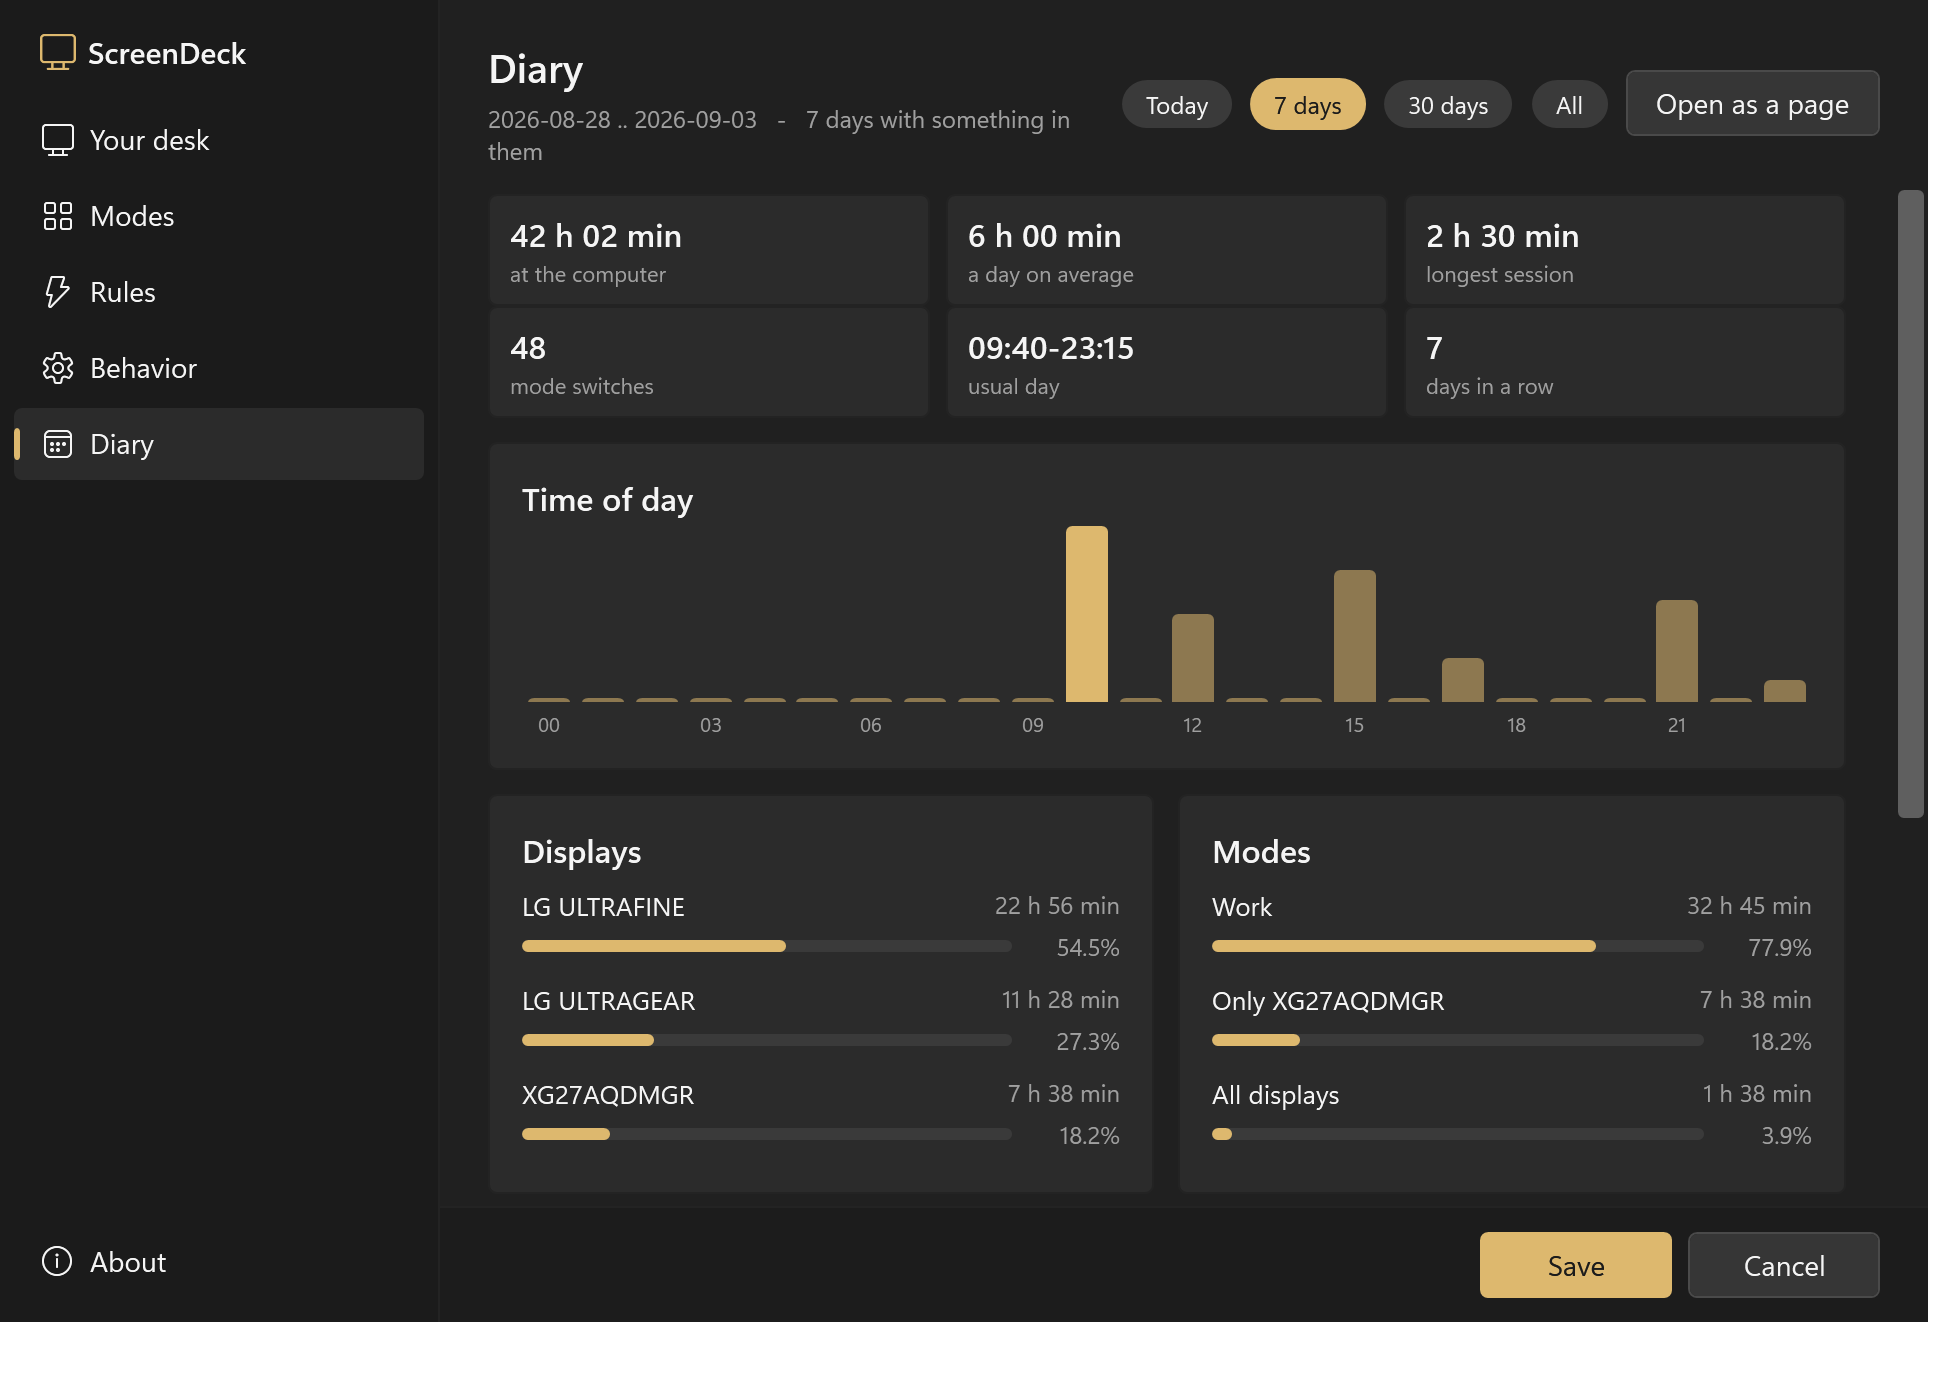
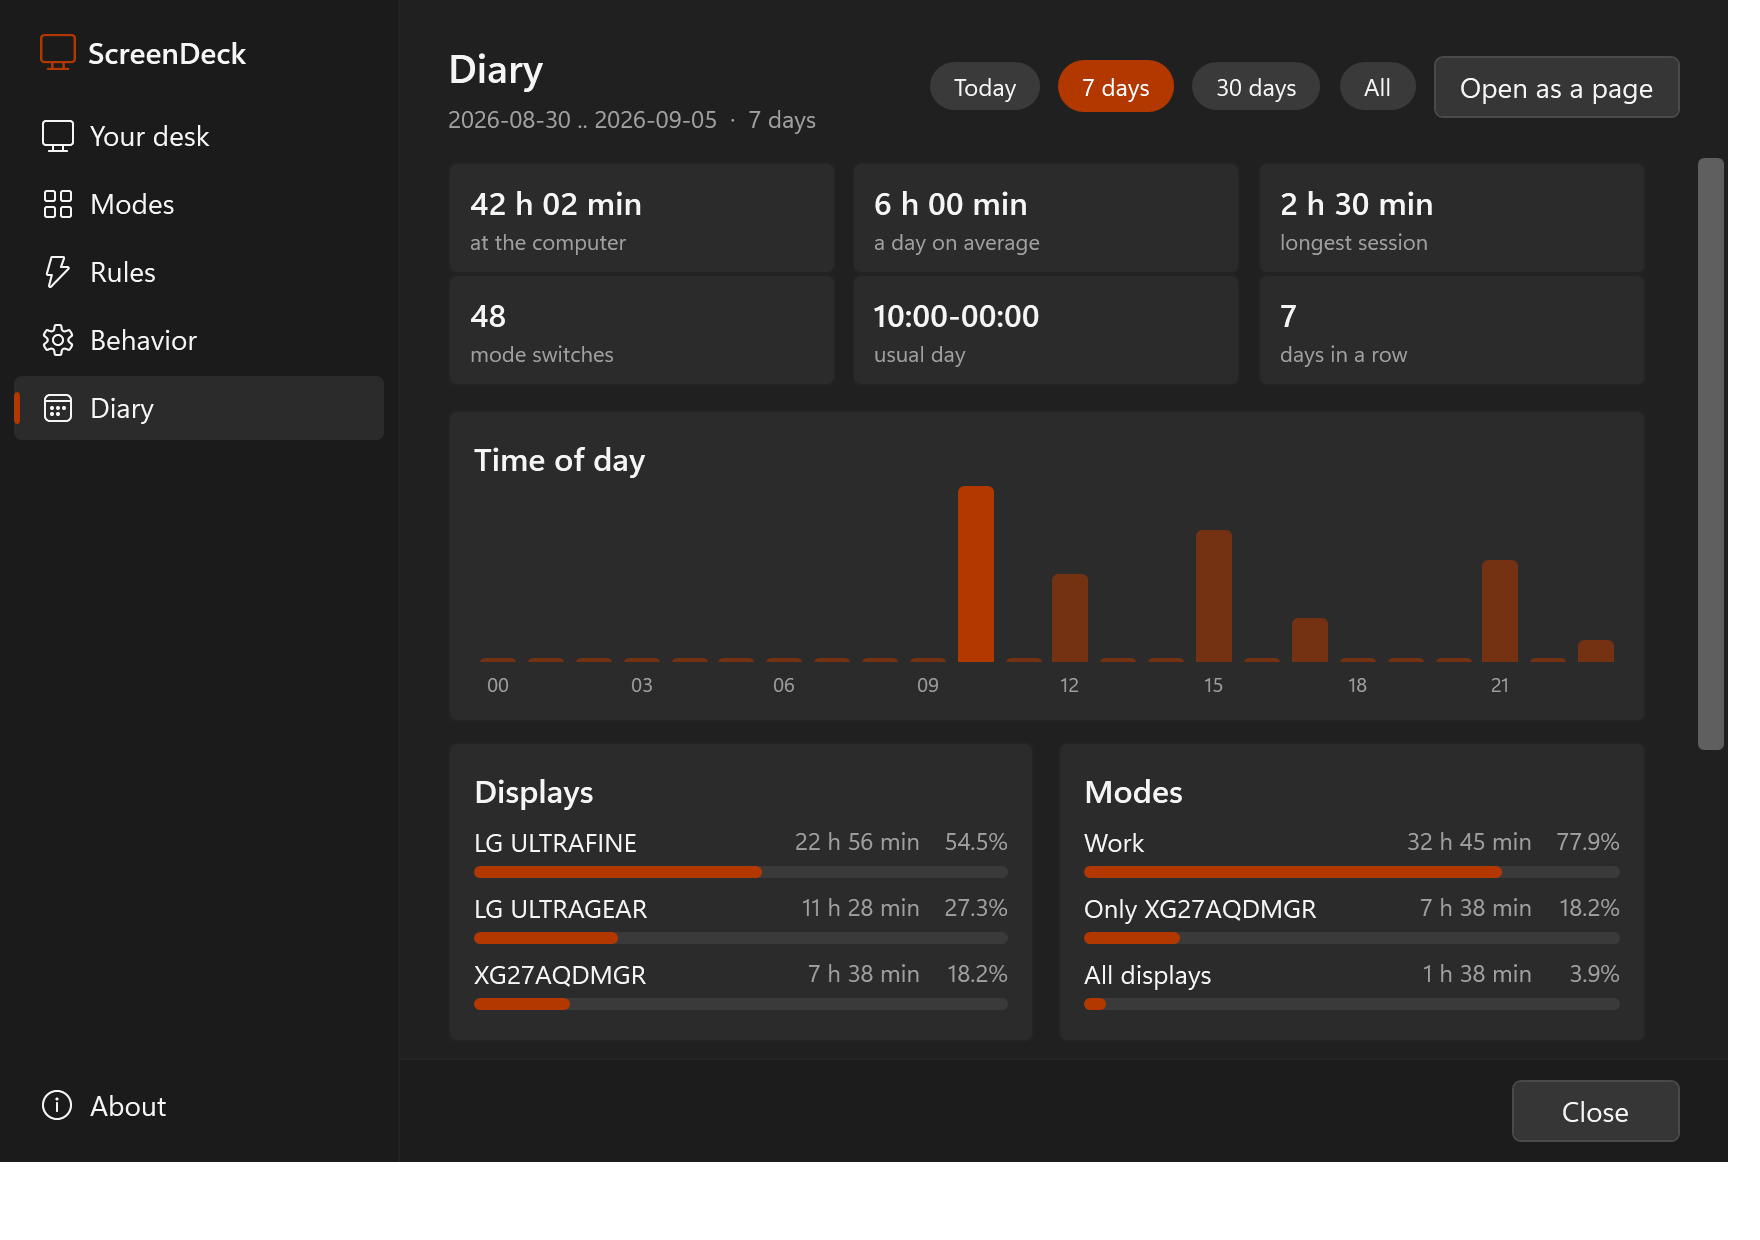
The wheel scrolls the page, and the usual day is read off the clock as a circle
Two things somebody hit in one evening, neither of them about switching displays.

A shut ComboBox takes a turn of the wheel for stepping through its own options - that is
WPF's own OnMouseWheel - and marks it handled, so the page it stands on never sees the
turn. Nine boxes here sit on a page that scrolls, and scrolling the mode editor down
towards the commands quietly turned "One level for all" into "Per monitor" with nothing
on screen to say so. The tunnelling Preview now marks the turn handled and raises it
again on the box's parent, where it bubbles to the ScrollViewer and scrolls; with the
list open the wheel is left alone, because walking the list is what it is for there.
Registered by walking the logical tree in Convert-UiXaml, the one funnel all four
markups pass through, so a box added to any of them later is guarded too - and a test
counts the boxes in each markup and asserts the walk finds that many.

"Usual day" was the average of every day's first and last activity, and it read
02:30-23:44 on a desk whose owner sits down at eleven. The diary's day is the calendar
date and a person's day is not: a session that runs past midnight leaves the next date's
first activity at 00:00, a minute nobody sat down at, and fourteen of sixteen dates here
are like that. There is no fixing the average - one date holds fragments of two personal
days - so the card is read off the histogram of hours instead, which is a circle with no
[…]

diff --git a/docs/notes.md b/docs/notes.md
@@ -2681,3 +2681,72 @@ and is plainly wrong once a monitor that is off the bus has a line too. That ren
 inside the embedded C# and so changes its SHA, which means one `native-*.dll` rebuild on the next
 start, once. Worth it: the name of a section is how somebody reading the renderer finds what it
 draws.
+
+## The wheel, and the day that began at half past two (2026-09-05)
+
+Two complaints from the same evening, and neither is about display switching.
+
+### A dropdown was quietly changing its own answer
+
+The mode editor's **Brightness** section offers three shapes — leave it alone, one level for all,
+a level per monitor — and the same for contrast. Somebody picked one, scrolled the page down
+towards the commands, and arrived with a different one picked. Nothing said so: a shut dropdown
+looks the same whatever is inside it.
+
+That is WPF's own `ComboBox.OnMouseWheel`. With the list shut it treats a turn of the wheel as
+`SelectNext` / `SelectPrev` and marks it handled, so the page it stands on never sees the turn.
+Nine boxes here sit on a page that scrolls, and the two that were noticed are simply the two
+somebody had just clicked — the box takes the wheel whenever the cursor is over it.
+
+The guard is five lines and it hangs on the *tunnelling* Preview, which reaches the box before
+WPF's own handler can act: with the list shut the turn is marked handled and raised again on the
+box's parent, where it bubbles to the `ScrollViewer` and scrolls. With the list OPEN it is left
+alone — walking a long list of processes is exactly what the wheel is for there.
+
+Where it is registered matters more than what it does. Not on the two boxes that were reported,
+and not on the nine that exist: on every `ComboBox` of every window, found by walking the logical
+tree in `Convert-UiXaml` — the one funnel all four markups pass through. The logical tree is what
+XAML fills in at parse time, so this works on a window nobody has shown yet, which is the state
+every test and `render-preview.ps1` is in. A tenth box added to any of those markups is guarded
+without anybody having read this file, and a test counts `<ComboBox` in each markup and asserts
+the walk finds that many — so a box hidden inside a template, where the logical walk would not
+reach it, fails a test instead of losing somebody's setting.
+
+The other branch is untestable from here on purpose: WPF coerces `IsDropDownOpen` back to false on
+a control that was never loaded, so a window nobody showed has no open list to turn a wheel over.
+The test says so where the case would have been.
+
+### "usual day  02:30-23:44"
+
+The card was the average of every day's first and last activity. On this desk it read half past
+two to a quarter to midnight, and neither hour is one anybody has ever sat down or got up at.
+
+The diary's day is the calendar date, and the person's day is not. Fourteen of sixteen dates in
+`activity.json` have `first = 00:00` — not a minute anybody sat down at, but the minute a session
+already in progress crossed into a new date. Averaged with the three dates that do start in the
+morning, those pulled the answer to 02:30. The end is the same lie the other way round: `23:59`
+on every date that ran on into the next.
+
+There is no fixing the average. What is stored per date is one `first` and one `last`, and one
+calendar date holds fragments of two different personal days — the tail of last night and all of
+today. Re-bucketing the days around a four-o'clock boundary would be the honest model, and it
+needs a stream of samples the file deliberately does not keep.
+
+The histogram of hours does not have the problem. It is a circle, midnight is nothing special on
+it, and the desk's shape is plain in it: nothing at all between 04:00 and 09:00, everything else
+busy. So the day is the clock with the longest quiet stretch cut out of it — `Get-UsualDay`, which
+looks for that stretch ROUND the clock rather than along it, because a night owl's quiet hours lie
+across midnight and along a flat 0..23 they read as two short stretches instead of one long one.
+It answers `10:00 .. 04:00` here.
+
+Two decisions inside it:
+
+- **An hour joins the day at a twentieth of the busiest one.** Without a floor, one sample at five
+  in the morning — one night, a year ago — stretches everybody's day to dawn and never stops.
+- **The price is the hour, not the minute.** `10:00`, never `10:07`. That is the honest precision
+  of a bucket an hour wide, and the card is called "usual day" rather than "sat down at".
+
+`first` and `last` are gone from the file with the average that read them. Nothing else looked at
+them, and a diary that holds less about a person is the better diary — that is the file's whole
+argument for existing at all. Days written before today keep their two values until each is next
+saved; `ConvertTo-ActivityDay` stopped carrying them over, so the first save drops them.

diff --git a/CHANGELOG.md b/CHANGELOG.md
@@ -134,7 +134,7 @@ in the tray menu — that line is the right thing to paste into a bug report.
 - **A row is two floors now**: the name, the time and the share on top, the bar across the
   bottom. In the old 880-point window all four shared one line, and the name was the one that
   gave way - "chrome on LG ULTRA..." was already cut off there. Nothing is trimmed any more.
-- The six figures are **three by two** rather than six across, so "09:40-23:15" has room to be
+- The six figures are **three by two** rather than six across, so "10:00-04:00" has room to be
   itself; and what the diary does not record is said once, on the **Behavior** page, instead of
   twice.
 
@@ -233,6 +233,23 @@ in the tray menu — that line is the right thing to paste into a bug report.
   keyed to a mode now *moves* to the new key instead of being cleared and rewritten from the
   edit — a setting the edit did not mention kept its value everywhere else in the window, and
   a rename was the one place that meant "throw it away".
+- **The wheel scrolls the page it is pointed at instead of changing a dropdown's pick.** WPF
+  lets a closed dropdown take the wheel for stepping through its own options, so scrolling the
+  mode editor down towards the commands — with the cursor over the box you had just chosen
+  "One level for all" in — quietly turned it into "Per monitor", and nothing on screen said so.
+  A dropdown now hands the turn back to the page; with its list open the wheel walks the list,
+  which is what it is there for.
+- **"Usual day" says when your day runs, and midnight does not cut it in two.** It used to be
+  the average of the days' first and last activity, and a session that runs past midnight leaves
+  the next date's first activity at 00:00 — a minute nobody sat down at. Averaged in, those put
+  the start of the day at 02:30 for somebody who sits down at eleven. It is now read off the
+  histogram of hours, which is a circle and has no midnight seam: the day is the clock with the
+  longest quiet stretch cut out of it, to the hour — "10:00-04:00". An hour counts as part of
+  the day once it holds a twentieth of the busiest one, so one stray night does not stretch
+  everything to dawn for good.
+- The diary no longer writes down the clock time of the first and last thing you did on a day —
+  nothing reads it any more, and a file that holds less about a person is the better file. The
+  two values disappear from `activity.json` the next time each day is saved.
 
 ### The diary has a window
 
